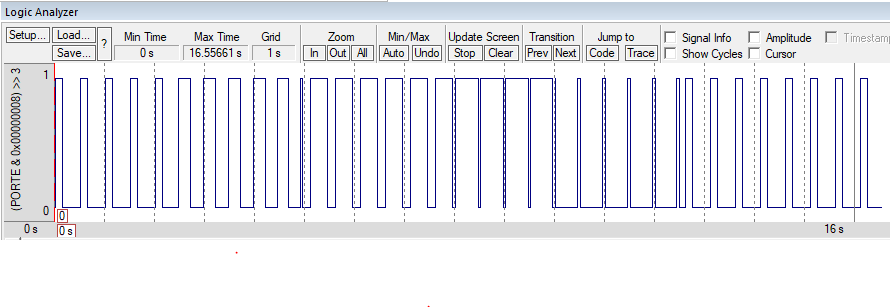
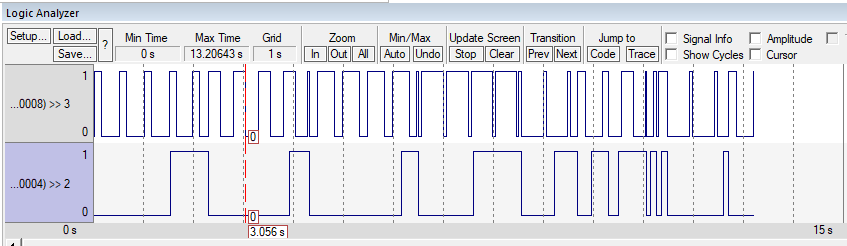
orgainization again

diff --git a/Lab3/Lab3.md b/Lab3/Lab3.md
@@ -2,7 +2,7 @@
 
 ## Step 1
 
-![Logical Analyzer](4FlipsPerSec.PNG)
+![Logical Analyzer](Step1Result.PNG)
 
 Setup 
 
@@ -109,6 +109,8 @@ loop
 
 ## Step 3 
 
+![Step 3 Logical Analyzer](Step3Result.PNG)
+
 I chose to make my loop increment the duty cycle by 20 percent each time PE2 was pressed and released and only acted on release. Also I chose to end the current delay when doing so, causing odd spikes, but I wanted to see results immidiately.
 
 To do this I had to rework my delay function quite a bit. One problem I ran into was calling subroutines inside subroutines. This made my delay function act irratically. This is something I need to ask the teacher about for future labs. I ended up inlining all my calls to subroutines and it got messy, especially since the structure is still there.
@@ -193,3 +195,4 @@ loop                                ; ~~~~~~MAIN ENGINE GOES HERE~~~~~~~~
 Although I was able to set up the circuit and the effect was essentially the same. The timing was off as expected. By how much I didn't measure.
 
 ## Step 5
+
